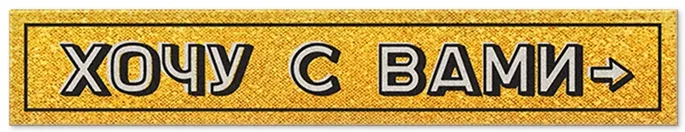
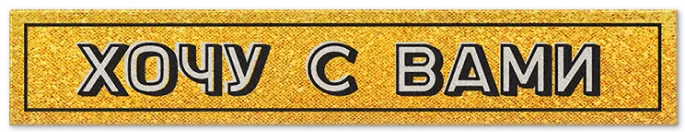
tashkent

diff --git a/app/page.tsx b/app/page.tsx
@@ -28,8 +28,8 @@ const photosSet2: Tile[] = [
 ];
 
 const photosSet3: Tile[] = [
-  { src: "/images/tashkent/new9 1.webp", alt: "new4 1", col: 4, row: 4 },
-  { src: "/images/tashkent/new10 1.webp", alt: "new5 1", col: 4, row: 4 },
+  { src: "/images/tashkent/new9 1.webp", alt: "new4 1", col: 4, row: 6 },
+  { src: "/images/tashkent/new10 1.webp", alt: "new5 1", col: 4, row: 6 },
 ];
 
 const photosSetRounded1: Tile[] = [
@@ -149,34 +149,21 @@ export default function HomePage() {
         <div>
           <p className={styles.subtitle}>Привет любименькие!</p>
           <p>
-            Пока весной и летом солнце трудилось, чтобы дядя Шовкат пёк в
-            тандыре лепёшки, текла куда надо Сырдарья и наливались ягоды
-            барбариса в горах, Юпитер во Льве был занят раздуванием нашего эго.
-            Мы Юпитер любим за то, что ему любой глубокий водоём по щиколотку,
-            за то, что он часто осыпает нас удачей и за то, что учит мечтать об
-            огромном и занимать больше пространства в этом мире. Но есть одна
-            крошечная деталь, которую на этом пути шальной императрицы мы часто
-            упускаем из виду: Юпитер надувает то, что уже в нас есть. И если к
-            этому моменту мы подошли заполненные чепухой, обидами или просто
-            пустыми идеями, то всё это, раздувшись, обязательно лопнет. Поэтому
-            прежде чем отправиться в увлекательный путь длинной в дюжину лет, а
-            именно столько продлится влияние Юпитера во Льве, я зову вас
-            попробовать дойти до самой сути вместе со мной. В глубоком личном
-            путешествии к самому себе. По дороге, вероятно, чьё-то эго подхватит
-            орёл и утащит в своё гнездо.
+          Пока весной и летом солнце трудилось, чтобы дядя Шовкат пёк в тандыре лепёшки, текла куда надо Сырдарья и наливались ягоды барбариса в горах, Юпитер во Льве был занят раздуванием нашего эго. Мы Юпитер любим за то, что ему любой глубокий водоём по щиколотку, за то, что он часто осыпает нас удачей и за то, что учит мечтать об огромном и занимать больше пространства в этом мире. Но есть одна крошечная деталь, которую на этом пути шальной императрицы мы часто упускаем из виду: Юпитер надувает то, что уже в нас есть. И если к этому моменту мы подошли заполненные чепухой, обидами или просто пустыми идеями, то всё это, раздувшись, обязательно лопнет. Поэтому прежде чем отправиться в увлекательный путь длинной в дюжину лет, а именно столько продлится влияние Юпитера во Льве, я зову вас попробовать дойти до самой сути вместе со мной. В глубоком личном путешествии к самому себе. По дороге, вероятно, чьё-то эго подхватит орёл и утащит в своё гнездо. 
+
           </p>
           <p>
-            Для этого мы камерной группой из всего 6 человек отправимся к
-            истокам: в место, где родились астрономия, астрология, папин
-            одноклассник Толик Тавтыкбеков и я.
+          Для этого мы камерной группой из всего 6 человек отправимся к истокам: в место, где родились астрономия, астрология, папин одноклассник Толик Тавтыкбеков и я. 
+
           </p>
           <p>
-            Узбеки говорят: «Если все искать пойдут - даже то, чего нет,
-            найдут». Я узбекам всегда верю, поэтому нам предстоит путешествие в
-            поисках себя и нового смысла в места силы моего детства, за закрытые
-            двери, куда не пускают туристов.
+          Узбеки говорят: «Если все искать пойдут — даже то, чего нет, найдут». Я узбекам всегда верю, поэтому нам предстоит путешествие в поисках себя и нового смысла в места силы моего детства, за закрытые двери, куда не пускают туристов.
+
           </p>
         </div>
+
+
+
       </CopySection>
       <PhotoSection tiles={photosSet0} />
       <CopySection>
@@ -184,35 +171,37 @@ export default function HomePage() {
           <LayeredTitle front="Что нас ждет?" />
         </h2>
         <br />
-        <p>
-          Мы вместе посетим остатки одной из важнейших обсерваторий
-          средневековья, потерянной на целых четыре века. Ее построил Улугбек,
-          внук великого завоевателя Тамерлана, большой любитель математики,
-          поэзии и астрологии. Он тридцать лет скрупулезно записывал наблюдения
-          за звездным небом, и без телескопов и современных технологий вычислил
-          точную длительность астрономического года с погрешностью всего 58
-          секунд. Говорят, эту страсть подхлестывал предкревший его гибель
-          гороскоп, точность которого Улугбек хотел проверить. И эта же страсть
-          стоила ему потери престола и гибели от рук собственного сына.
-        </p>
-        <p>
-          Мы побываем в одном из древнейших городов мира, Самарканде, через
-          который более двух тысяч лет проходил Великий шелковый путь из Китая в
-          Европу. Мы познакомимся с местными шаманами, опытными проводниками и
-          вместе затеряемся на ташкентских шумных базарах, увидим настоящую
-          магию в действии и попробуем освоить самую сложную ее форму — умение
-          торговаться.
-        </p>
-        <PhotoSection tiles={photosSetRounded2} gap={32} />
 
+        <span>7 октября</span>
         <p>
-          Проведем чайную церемонию на горной вершине и выйдем на связь с
-          великим князем и повесой Николаем Константиновичем Романовым,
-          изгнанным из царской семьи в Узбекистан. В роду, увлекавшимся
-          переворатами, братоубийством, свадьбами карликов, мистицизмом и
-          вырыванием зубов придворных, он стал единственным, кого официально
-          признали недееспособным — и тоже из-за страсти.
+        Мы встретимся в Ташкенте, городе с 2200-летней историей, заселимся в отель и проведем приветственный ужин в ресторане с эксклюзивным сет-меню. Компанию нам составит оркестр, играющий древнюю и задумчивую музыку на местных инструментах — сурнай, дойра и карнай. Наша камерная группа познакомится друг с другом, и мы проведем этот теплый вечер вместе.
+
         </p>
+        <p>
+        Впереди у нас совместное приключение.
+        </p>
+        </CopySection>
+        <PhotoSection tiles={photosSet1} />
+
+        <CopySection>
+        <span>8 октября</span>
+        <p>
+        Нашим проводником к тайнам города станет опытная гид Севиль Абилева, у которой есть ключи ко всем закрытым дверям Ташкента. Вместе с ней мы затеряемся на шумном базаре Чорсу, где мы будем собирать артефакты для нашего ритуала. Столкнемся с шаманами, увидим настоящую магию в действии и попробуем освоить самую сложную ее форму — умение торговаться. Мы побываем в новом модном музейном пространстве, которое еще только готовится к открытию, приватной комнате чайных церемоний, Музее прикладного искусства и концептуальном бутике Жени Ким — J.Kim House.
+
+        </p>
+        <br />
+        <Image
+          src="/images/tashkent/севиль.webp"
+          alt="image 37"
+          width={800}
+          height={800}
+          style={{ width: "100%", height: "100%", objectFit: "contain" }}
+        />
+        <br />
+        <p>
+        Нас — невероятная удача — впустят в дом приемов МИД Узбекистана в дворце, который когда-то построил великий князь и повеса Николай Константинович Романов. Его в 1874 году изгнали из царской семьи и сослали в Узбекистан. В роду, увлекавшимся переворатами, братоубийством, свадьбами карликов, мистицизмом и вырыванием зубов придворных, он стал единственным, кого официально признали недееспособным — из-за страсти.
+        </p>
+        <br />
         <Image
           src="/images/tashkent/golden-frame 1.webp"
           alt="Золотая рамка"
@@ -221,47 +210,9 @@ export default function HomePage() {
           style={{ width: "100%", height: "100%", objectFit: "contain" }}
         />
         <p>
-          Князь украл три бриллианта у матери, чтобы купить подарки своей
-          возлюбленной американской танцовщице Фанни Лир. В Ташкенте он,
-          наконец, стал собой: сбрил бороду и брови, носил шапку из котика,
-          построил дворец и музей, и открыл в себе предпринимательский талант.
-          Построил оросительные каналы в Голодной степи, мыловаренный завод и
-          хлопковые мануфактуры. Замостил улицы Ташкента, открыл фотомастерские,
-          бильярдные, больницу для бедных, богадельню, цирк и публичный дом «У
-          бабуленьки».
+        Князь украл три бриллианта у матери, чтобы купить подарки своей возлюбленной американской танцовщице и куртизанке Фанни Лир. В Ташкенте он, наконец, стал собой: сбрил бороду и брови, носил шапку из котика, построил дворец и музей, и открыл в себе предпринимательский талант. Построил оросительные каналы в Голодной степи, мыловаренный завод и хлопковые мануфактуры. Замостил улицы Ташкента, открыл  фотомастерские, бильярдные, больницу для бедных, богадельню, цирк и публичный дом «У бабуленьки». В музее искусств Узбекистана мы увидим статую полуобнаженной Фанни Лир, и, после трансцендентного сеанса связи с князем, завершим день завораживающим закатом в старом городе у стен Хаст-Имам.
         </p>
-        <p>
-          В этом путешествии я буду вместе с вами, и помогу найти ответы на
-          самые сокровенные вопросы. Меркурий в Ташкенте, как и великий князь,
-          будет искать все самое важное потерянное — настоящих, перерожденных
-          себя. Там, где я крепла на молоке матери, плове, чае с чабрецом и
-          песнях группы «Иванушки», а задумчивый Улугбек кропотливо записывал
-          для нас звезды и планеты, без которых нам уже не найти путь вперед.
-        </p>
-        <PhotoSection tiles={photosSetRounded1} gap={32} />
-        <h2 className={styles.sectionTitle}>
-          <LayeredTitle front="Программа" />
-        </h2>
-        <span>7 октября</span>
-        <p>
-          Заселение в отель и приветственный вечерний ужин в ресторане. Мы
-          познакомимся и проведем этот теплый вечер вместе.
-        </p>
-      </CopySection>
-
-      <PhotoSection tiles={photosSet1} />
-
-      <CopySection>
-        <span>8 октября</span>
-        <p>Прогулка по Ташкенту с лучшим гидом Ташкента.</p>
-        <p>
-          Весь день мы проведем вместе с гидом и откроем для себя Ташкент. Мы
-          посетим дворец Романовых и Музей прикладного искусства. После обеда
-          заглянем в новое музейное пространство, где в специальной чайной
-          комнате выйдем на связь с Николаем Константиновичем Романовым. Затем
-          нас ждут базар Чорсу и визит в концептуальный бутик Жени Ким — J.Kim
-          House и, наконец, завораживающий закат у стен Хаст-Имам.
-        </p>
+        <br />
         <br />
         <Image
           src="/images/tashkent/image 37.webp"
@@ -270,12 +221,8 @@ export default function HomePage() {
           height={800}
           style={{ width: "100%", height: "100%", objectFit: "contain" }}
         />
-      </CopySection>
-      <br />
-      <br />
-      <PhotoSection tiles={photosSet2} />
-      <CopySection>
-        <Image
+              <PhotoSection tiles={photosSet2} />
+              <Image
           src="/images/tashkent/храм 1.webp"
           alt="image 37"
           width={800}
@@ -284,13 +231,17 @@ export default function HomePage() {
         />
         <br />
         <br />
-        <span>9 октября</span>
-        <p>День в Самарканде.</p>
+        <span>8 октября</span>
         <p>
-          Утром мы отправляемся на скоростном поезде в древний Самарканд. Там мы
-          посетим площадь Регистан и побываем в легендарной обсерватории
-          Улугбека. Пообедаем в ресторане с панорамным видом на исторические
-          памятники, а к вечеру вернемся на поезде обратно в Ташкент.
+        Утром мы отправимся на скоростном поезде в одним из древнейших городов мира, Самарканд, через который более двух тысяч лет проходил Великий шелковый путь из Китая в Европу. Мы посмотрим площадь Регистан, пообедаем в ресторане с панорамным видом на исторические памятники, и посетим одну из главных точек нашего путешествия, куда не пускают обычных туристов — остатки важнейшей обсерватории средневековья, потерянной в барханах на целых четыре века.  
+        </p>
+        <p>
+        Обсерваторию построил Улугбек, внук великого завоевателя Тамерлана, большой любитель математики, поэзии и астрологии. Он тридцать лет скрупулезно записывал наблюдения за звездным небом, и без телескопов и современных технологий вычислил точную длительность астрономического года с погрешностью всего 58 секунд. Говорят, эту страсть подхлестывал предрекший его гибель гороскоп, точность которого Улугбек хотел проверить. И эта же страсть стоила ему потери престола и гибели от рук собственного сына.
+
+        </p>
+        <p>
+        Вечером вернемся на поезде обратно в Ташкент.
+
         </p>
         <Image
           src="/images/tashkent/площадь 1.webp"
@@ -308,19 +259,18 @@ export default function HomePage() {
           height={800}
           style={{ width: "100%", height: "100%", objectFit: "contain" }}
         />
-        <br />
-        <br />
-        <span>10 октября</span>
-        <p>Ритуал в горах.</p>
+            <PhotoSection tiles={photosSetRounded2} gap={32} />
+
+            <span>10 октября</span>
         <p>
-          Наше главное таинство пройдет в уединенном и живописном горном месте.
-          Оля уделит время каждому гостю, чтобы в индивидуальном формате
-          ответить на самый важный вопрос. Вечером нас ждут чайная церемония,
-          ритуал и совместный ужин, после чего мы возвращаемся в Ташкент.
+        Кульминационной точкой станет церемония возвращения к своим истокам. Мы с вами отправимся в одно очаровательное место в горах, где мы подготовим тело к ритуалу очищения духа. А ещё с каждым из вас проведём индивидуальную астрологическую консультацию. Я много лет не делаю этого за очень редким исключением, но именно в горах Узбекистана 30 лет назад звездочёт предсказал мне моё будущее и помог с выбором, который встал передо мной много позже. Поэтому я хочу отдать дань астрологии и своему призванию и попробовать помочь каждому из тех, кто окажется в этот день рядом. 
+        </p>
+        <p>
+        Сама церемония очищения пройдёт на живописной горной вершине. В этих горах я провела своё детство, там я научилась самому важному, и обязательно поделюсь этим с вами. В горах ничего не будет отвлекать нас от самого главного — единения с природой, стихией и самим собой. Я не могу рассказывать обо всём, что будет происходить, но уверена, что каждый из нас сможет избавиться от того, что мешает добраться до самой сути и сможет забрать самое ценное — настоящего себя.
+        А после этого, опустошенные от ненужного и, надеюсь, самые счастливенькие, мы вместе поужинаем.
         </p>
         <PhotoSection tiles={photosSet3} />
-        <br />
-        <br />
+
         <span>11 октября</span>
         <p>Выезд (свободное время перед рейсами).</p>
         <h2 className={styles.sectionTitle}>
@@ -329,6 +279,9 @@ export default function HomePage() {
         </h2>
         <p className={styles.subtitle}>Входит</p>
         <ul>
+        <li>
+            Индивидуальный трансфер из аэропорта.
+          </li>
           <li>
             Приветственный ужин-сет с алкогольным сопровождением в первый день.
           </li>
@@ -352,10 +305,7 @@ export default function HomePage() {
         <ul>
           <li>Авиабилеты</li>
           <li>Проживание в отеле</li>
-          <li>
-            Индивидуальный трансфер из аэропорта и в аэропорт (мы подскажем, как
-            удобнее всего заказать такси).
-          </li>
+          
 
           <li>Медицинская страховка.</li>
         </ul>

diff --git a/app/globals.css b/app/globals.css
@@ -57,29 +57,31 @@ html {
   scroll-behavior: smooth;
   background-color: #312944;
   background-image:
-    linear-gradient(
-      180deg,
-      #5676ae 0%,
-      #6caed1 13%,
-      #81b4d0 16%,
-      #b8c5d0 23%,
-      #dad0d0 29%,
-      #e8d4d0 32%,
-      #f9e6ca 52%,
-      #f7dec4 57%,
-      #f3cab5 64%,
-      #eca99c 73%,
-      #eca79b 74%,
-      #dc9d95 77%,
-      #b48388 82%,
-      #745972 90%,
-      #6c5470 91%,
-      #312944 100%
-    );
+  linear-gradient(
+    180deg,
+    #C9D7F0 0%,
+    #B9DBEE 13%,
+    #CFE0E9 16%,
+    #C2CED8 23%,
+    #eca79b 26%,
+    #DAD0D0 29%,
+    #E8D4D0 32%,
+    #F9E6CA 52%,
+    #F7DEC4 57%,
+    #F3CAB5 64%,
+    #ECA99C 73%,
+    #ECA79B 74%,
+    #DC9D95 77%,
+    #B48388 82%,
+    #745972 90%,
+    #6C5470 91%,
+    #312944 100%
+  );
   background-repeat: no-repeat;
   background-position: center top;
   background-size: 100% 100%;
 }
+
 
 @media (prefers-reduced-motion: reduce) {
   html {

diff --git a/components/HeroSection.tsx b/components/HeroSection.tsx
@@ -23,7 +23,7 @@ export function HeroSection() {
           </div>
           <a className={styles.heroCtaLink} href="#hero-scroll-target">
             <Image
-              src="/images/tashkent/tashkent-cta-button.png"
+              src="/images/tashkent/tashkent-cta-button.webp"
               alt="Хочу с вами"
               className={styles.heroCtaImage}
               width={300}